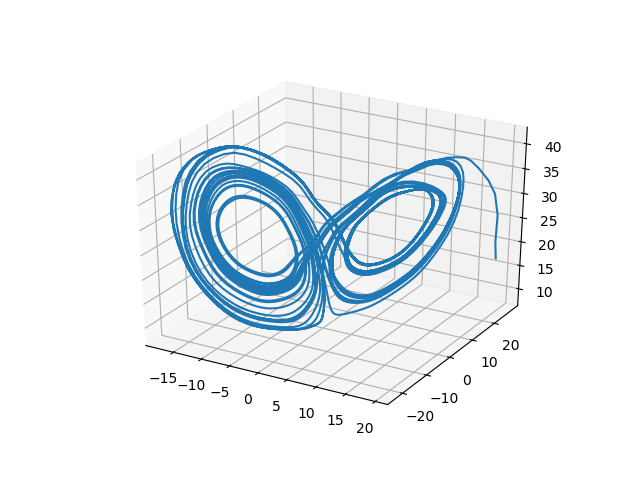
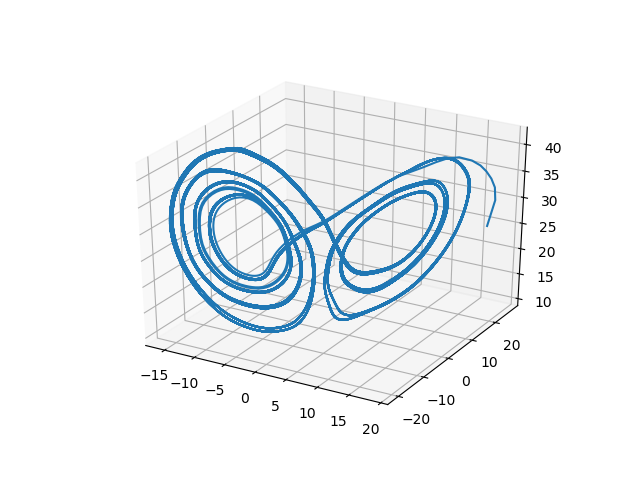
deeplearning

diff --git a/lorenz_lstm.py b/lorenz_lstm.py
@@ -8,7 +8,7 @@ from torch.autograd import Variable
 import torch.optim as optim
 from mpl_toolkits.mplot3d import Axes3D
 INPUT_SIZE = 3
-HIDDEN_SIZE = 256
+HIDDEN_SIZE = 128
 OUTPUT_SIZE = 3
 LR = 0.01
 
@@ -92,7 +92,7 @@ ax = fig.gca(projection='3d')
 print(predictions.shape)
 ax.plot(predictions[:, 0], predictions[:, 1], predictions[:, 2])
 plt.show()
-plt.savefig("256_lstm_2l.png")
+plt.savefig("128_lstm_2l.png")
 
 print(states[:10])
 fig1 = plt.figure()

diff --git a/lorenz_gru.py b/lorenz_gru.py
@@ -8,7 +8,7 @@ from torch.autograd import Variable
 import torch.optim as optim
 from mpl_toolkits.mplot3d import Axes3D
 INPUT_SIZE = 3
-HIDDEN_SIZE = 256
+HIDDEN_SIZE = 64
 OUTPUT_SIZE = 3
 LR = 0.01
 
@@ -97,7 +97,7 @@ ax = fig.gca(projection='3d')
 print(predictions.shape)
 ax.plot(predictions[:, 0], predictions[:, 1], predictions[:, 2])
 plt.show()
-plt.savefig("256_gru.png")
+plt.savefig("64_gru.png")
 
 print(states[:10])
 fig1 = plt.figure()

diff --git a/lorenz_rnn.py b/lorenz_rnn.py
@@ -8,7 +8,7 @@ from torch.autograd import Variable
 import torch.optim as optim
 from mpl_toolkits.mplot3d import Axes3D
 INPUT_SIZE = 3
-HIDDEN_SIZE = 256
+HIDDEN_SIZE = 64
 OUTPUT_SIZE = 3
 LR = 0.01
 
@@ -96,7 +96,7 @@ ax = fig.gca(projection='3d')
 print(predictions.shape)
 ax.plot(predictions[:, 0], predictions[:, 1], predictions[:, 2])
 plt.show()
-plt.savefig("256_rnn.png")
+plt.savefig("64_rnn.png")
 
 print(states[:10])
 fig1 = plt.figure()
